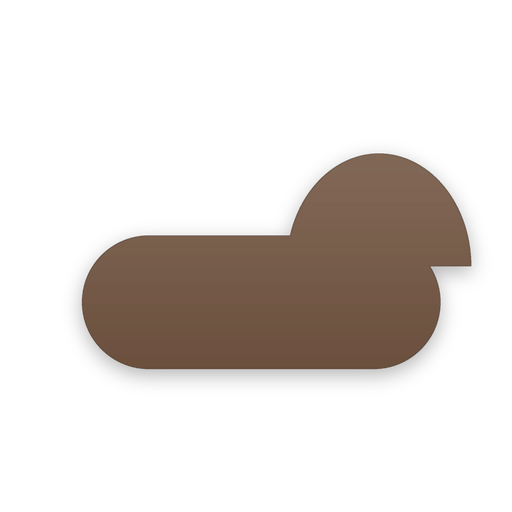
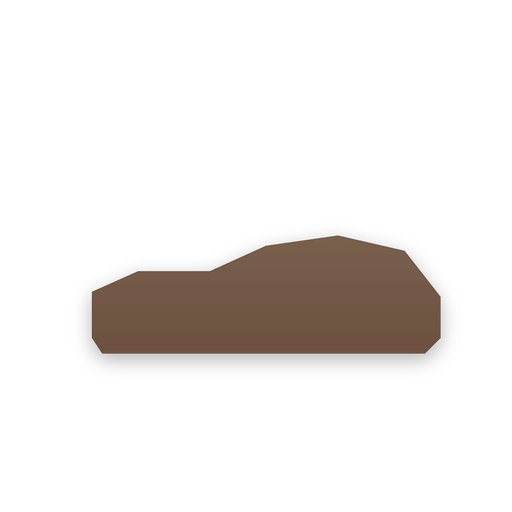
fix: cleaner coat and shoe garment silhouettes
The outerwear placeholder rendered as two horns with a centre gap (the
lapel polygon self-intersected) and the footwear one had a floating toe
notch (rounded-rect + pieslice didn't overlap). Redrew both:

- OUTER: a clean long coat block with a simple collar notch; the centre
  seam is drawn, not a hole.
- SHOE: a single side-profile polygon (heel → vamp → toe), no pieslice.

Regenerated all 12 PNGs from the updated tool/render_garments.py.

Changed region(s): [[0.1562, 0.2812, 0.9375, 0.6562], [0.1875, 0.6875, 0.8125, 0.75], [0.8125, 0.625, 0.875, 0.6875]]

diff --git a/tool/render_garments.py b/tool/render_garments.py
@@ -45,9 +45,14 @@ def pts(seq):
 TOP = [(34, 22), (16, 35), (25, 50), (34, 45), (34, 84), (66, 84), (66, 45),
        (75, 50), (84, 35), (66, 22), (58, 30), (50, 31), (42, 30)]
 
-OUTER = [(34, 18), (13, 32), (23, 53), (33, 47), (33, 88), (46, 88), (46, 40),
-         (50, 46), (54, 40), (54, 88), (67, 88), (67, 47), (77, 53), (87, 32),
-         (66, 18), (54, 30), (50, 42), (46, 30)]
+# A clean long coat: top block extended to the hem, simple collar notch — no
+# self-intersecting lapel split (the centre seam is drawn separately).
+OUTER = [(34, 18), (12, 32), (23, 54), (33, 48), (33, 90), (67, 90), (67, 48),
+         (77, 54), (88, 32), (66, 18), (58, 27), (50, 30), (42, 27)]
+
+# Side-profile shoe (heel left, vamp peak centre, toe right).
+SHOE = [(18, 66), (18, 57), (27, 53), (41, 53), (52, 48), (66, 46), (79, 49),
+        (86, 58), (86, 66), (83, 69), (20, 69)]
 
 BOTTOMS = [(33, 14), (67, 14), (65, 52), (61, 88), (52, 88), (50, 52),
            (48, 88), (39, 88), (35, 52)]
@@ -75,9 +80,7 @@ def shape_mask(kind):
     elif kind == "accessories":
         d.rounded_rectangle([s(27), s(30), s(73), s(70)], radius=s(9), fill=255)
     elif kind == "footwear":
-        # a low shoe: rounded body + toe
-        d.rounded_rectangle([s(16), s(46), s(86), s(72)], radius=s(13), fill=255)
-        d.pieslice([s(56), s(30), s(92), s(74)], 180, 360, fill=255)
+        draw_poly(d, SHOE, 255)
     else:  # folded / other
         d.rounded_rectangle([s(24), s(26), s(76), s(74)], radius=s(11), fill=255)
     return m
